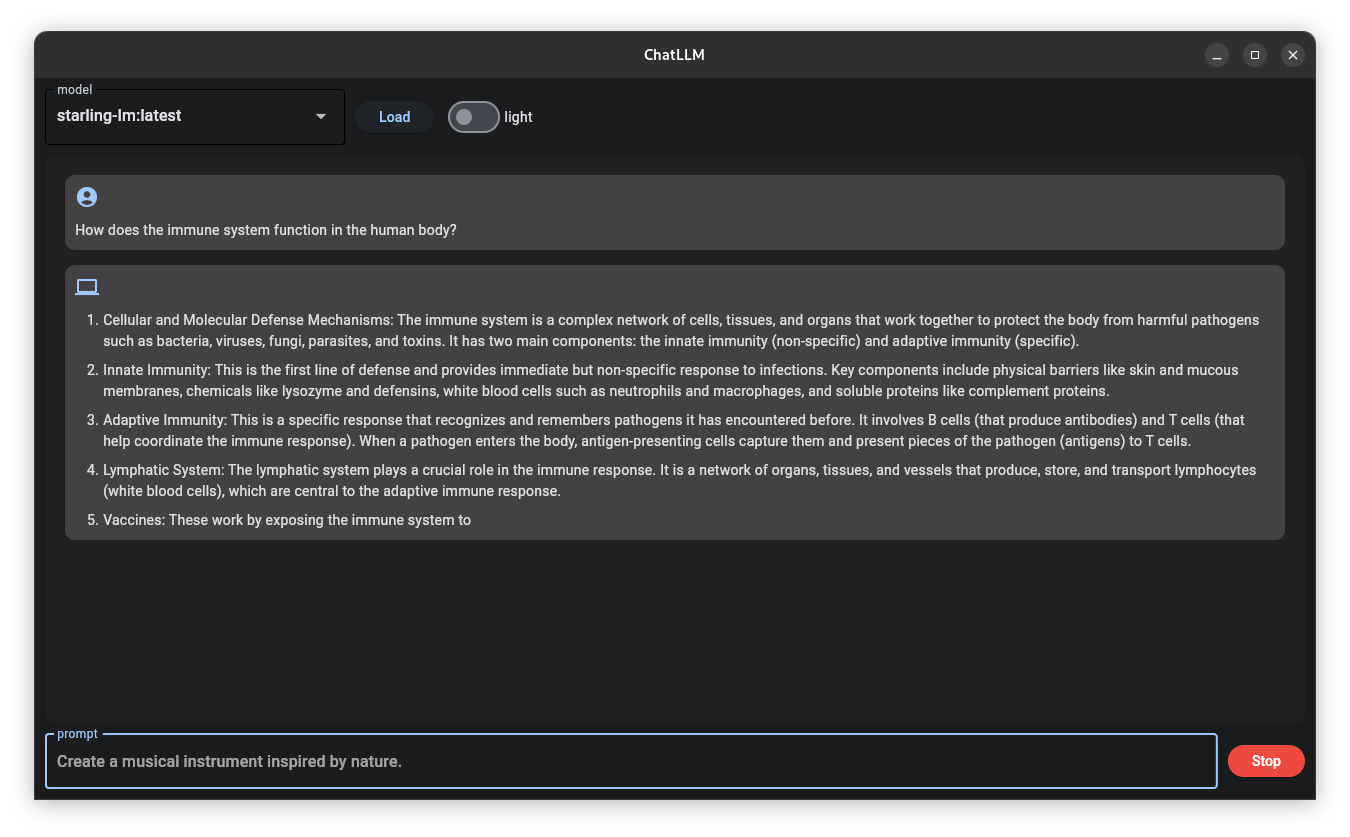
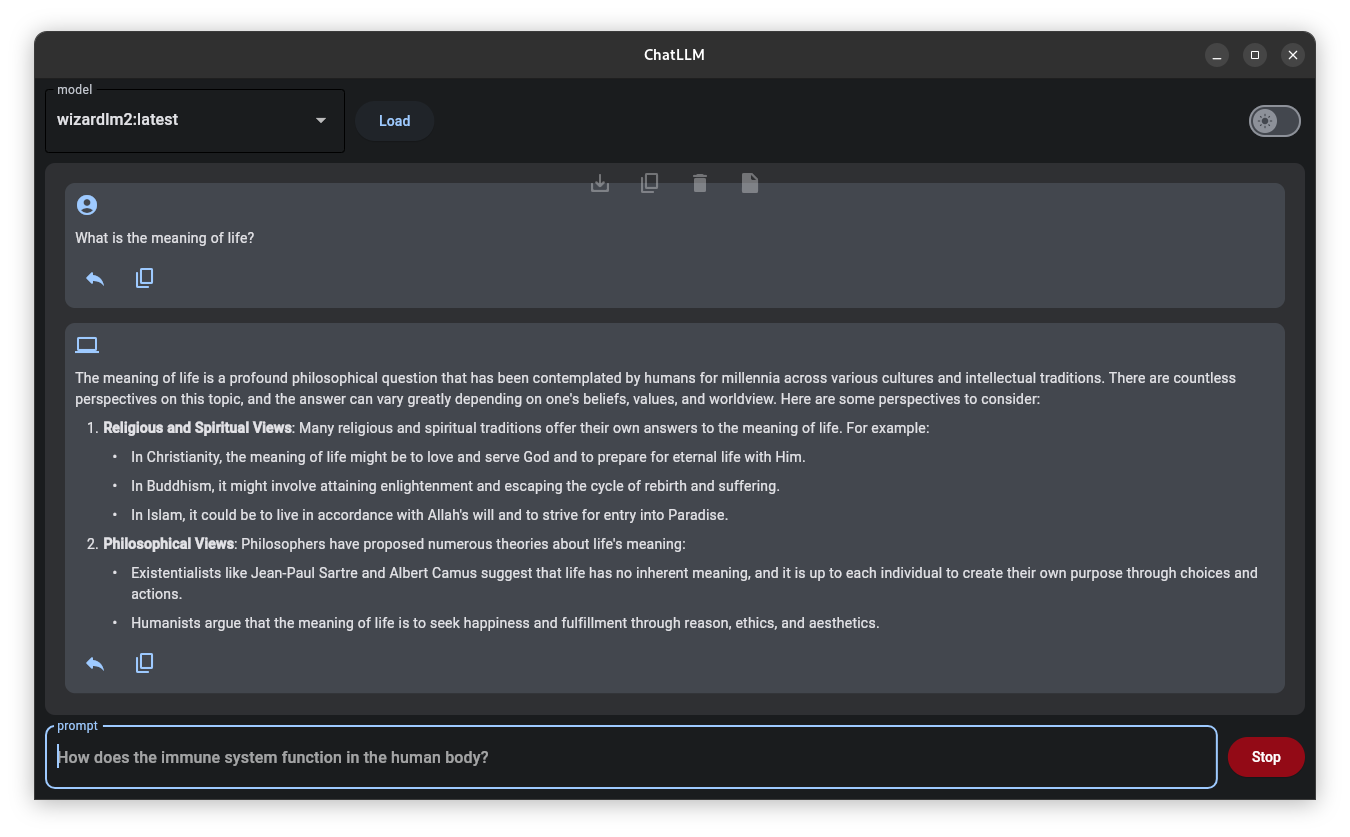
fixed scroll stuck

diff --git a/chatllm.py b/chatllm.py
@@ -226,13 +226,20 @@ def main(page: ft.Page):
     clear_chat = ft.IconButton(icon=ft.icons.DELETE_ROUNDED, tooltip='Clear chat', on_click=clear_chat_clicked)
     clear_context = ft.IconButton(icon=ft.icons.INSERT_DRIVE_FILE_ROUNDED, tooltip='Clear context', on_click=clear_context_clicked)
 
-    chat_control = ft.Container(
-        content=ft.Row([
+    # chat_control = ft.Container(
+    #     content=ft.Row([
+    #         save_chat,
+    #         copy_chat,
+    #         clear_chat,
+    #         clear_context,
+    #     ], alignment=ft.MainAxisAlignment.CENTER), alignment=ft.alignment.bottom_center, disabled=True)
+    
+    chat_control = ft.Row([
             save_chat,
             copy_chat,
             clear_chat,
             clear_context,
-        ], alignment=ft.MainAxisAlignment.CENTER), alignment=ft.alignment.bottom_center, disabled=True)
+        ], alignment=ft.MainAxisAlignment.CENTER, disabled=True)
 
     chat_entries = ft.ListView(expand=True, auto_scroll=True, spacing=15, padding=20)
     chat_container = ft.Container(content=chat_entries, border_radius=ft.border_radius.all(10), bgcolor=ft.colors.ON_INVERSE_SURFACE, expand=True)
